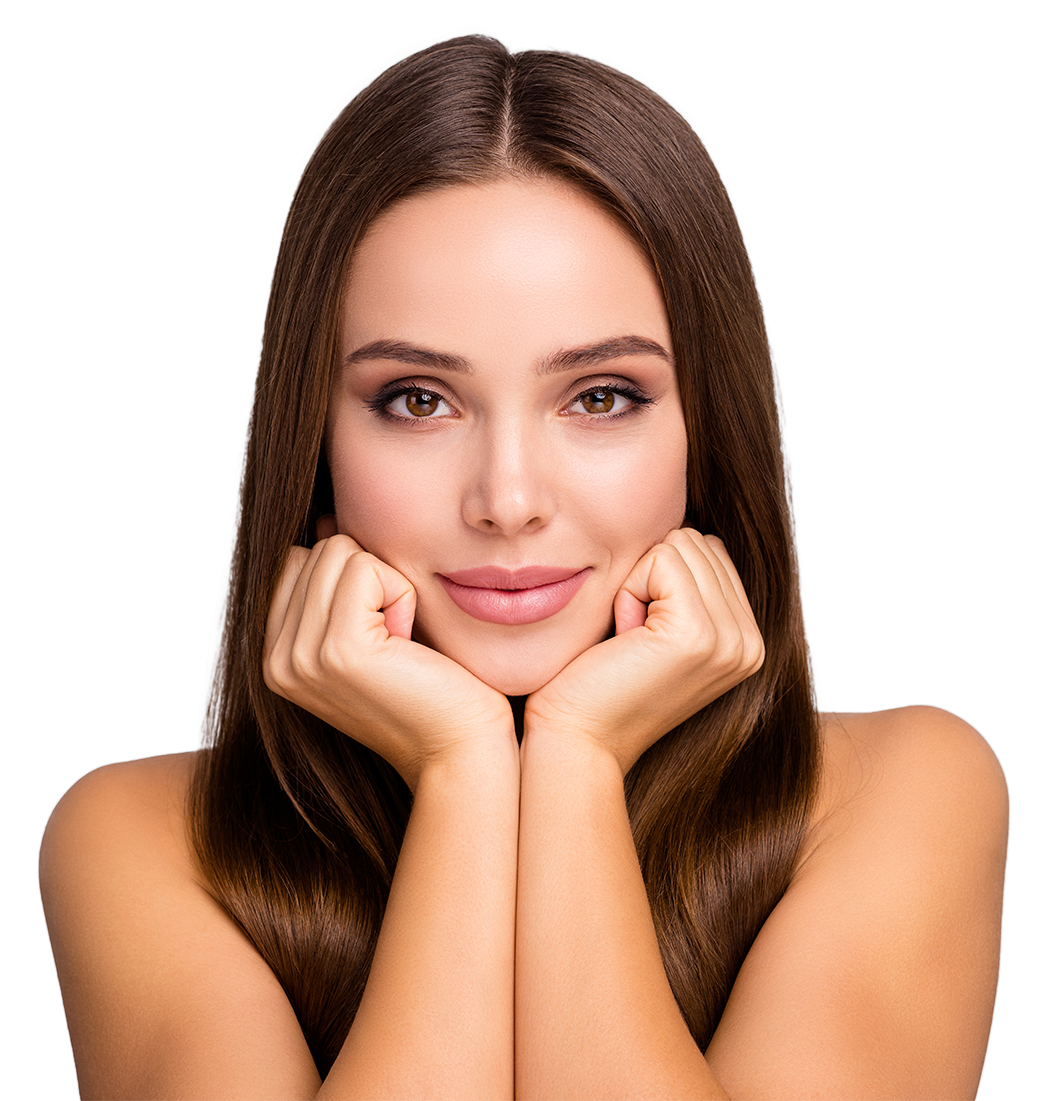
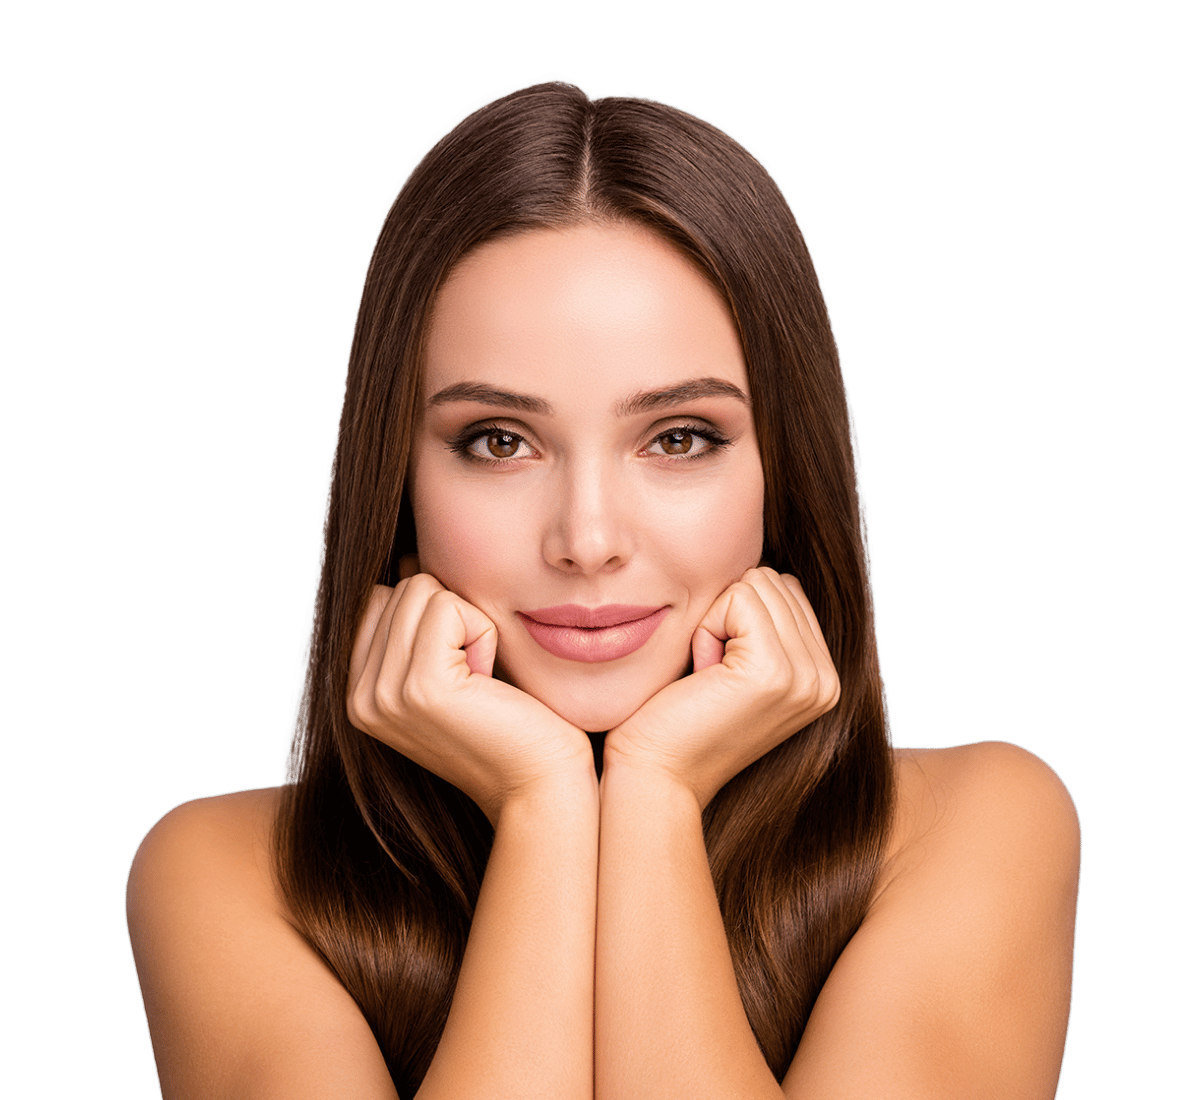
Remove Bart_Model image; update titles and image dimensions for eyebrow and hair transplantation sections to enhance layout and responsiveness

diff --git a/src/components/beardTransplantation/HeroSection.tsx b/src/components/beardTransplantation/HeroSection.tsx
@@ -28,7 +28,7 @@ const HeroSection: React.FC = () => {
   return (
     <div 
       ref={heroRef}
-      className="relative overflow-hidden min-h-[75vh] flex items-center"
+      className="relative overflow-hidden min-h-[85vh] flex items-center"
     >
       {/* Background with gradient and blur effects */}
       <div className="absolute inset-0 z-0">
@@ -73,12 +73,12 @@ const HeroSection: React.FC = () => {
           </div>
           
           {/* Main content area with perfect spacing */}
-          <div className="flex-1 flex flex-col justify-between py-4">
+          <div className="flex-1 flex flex-col justify-between pt-4 pb-0">
             {/* Text content with refined typography and animations */}
             <div className="space-y-6 mt-4">
               {/* Title with elegant animation and perfect typography */}
               <div className={`transition-all duration-1000 delay-300 ease-out ${isVisible ? 'opacity-100 translate-y-0' : 'opacity-0 -translate-y-6'}`}>
-                <h1 className={`${textStyle.heroTitle} text-center px-1 leading-tight break-words hyphens-auto`} lang="de">
+              <h1 className={`${textStyle.heroTitle} text-center px-1 leading-tight break-words hyphens-auto whitespace-pre-line`} lang="de">
                   {t('heroSection.title')}
                 </h1>
                 
@@ -113,7 +113,7 @@ const HeroSection: React.FC = () => {
             </div>
             
             {/* Image section with enhanced visual effects */}
-            <div className="mt-10 mb-16 relative">
+            <div className="mt-10 -mb-10 relative">
               {/* Decorative elements */}
               <div className="absolute inset-0 -z-10">
                 <div className="absolute bottom-0 left-1/2 transform -translate-x-1/2 w-[120%] h-[300px] bg-gradient-to-t from-[#7BA7C2]/10 to-transparent rounded-[100%] blur-2xl opacity-60"></div>
@@ -130,14 +130,11 @@ const HeroSection: React.FC = () => {
                   <div className="absolute bottom-1/3 -right-6 w-16 h-16 rounded-full border border-[#7BA7C2]/10 animate-pulse-slower"></div>
                   
                   <img 
-                    src="/images/Barthaartransplantation_Model.png"
+                    src="/images/Model_Bart.png"
                     alt="Dr. Dion - Führender Experte für Barthaartransplantation"
-                    className="w-auto h-auto max-h-[420px] object-contain relative z-10"
-                    style={{ 
-                      filter: 'drop-shadow(0 20px 13px rgb(0 0 0 / 0.05)) drop-shadow(0 8px 5px rgb(0 0 0 / 0.1))'
-                    }}
-                    width="400"
-                    height="600"
+                    className="w-auto h-auto max-h-[500px] object-contain relative z-10 scale-125"
+                    width="450"
+                    height="650"
                   />
                 </div>
               </div>
@@ -150,14 +147,14 @@ const HeroSection: React.FC = () => {
       
       {/* Desktop Layout - Refined for perfect aesthetics */}
       <div className="hidden md:block w-full max-w-7xl mx-auto px-8 relative z-10">
-        <div className="relative min-h-[600px] flex items-center">
+        <div className="relative min-h-[750px] flex items-center">
           {/* No logo in desktop version as per original design */}
           
           {/* Text content with refined typography and animations */}
-          <div className="relative z-10 w-[55%] flex flex-col justify-center h-full pt-6">
+          <div className="relative z-10 w-[50%] flex flex-col justify-center h-full pt-6 pr-12">
             {/* Title with elegant animation and perfect typography */}
             <div className={`transition-all duration-1000 delay-300 ease-out ${isVisible ? 'opacity-100 translate-y-0' : 'opacity-0 -translate-y-6'}`}>
-              <h1 className={`${textStyle.heroTitle} text-left leading-tight break-words hyphens-auto`} lang="de">
+              <h1 className={`${textStyle.heroTitle} text-left leading-tight break-words hyphens-auto whitespace-pre-line`} lang="de">
                 {t('heroSection.title')}
               </h1>
               
@@ -221,14 +218,11 @@ const HeroSection: React.FC = () => {
               <div className="absolute top-1/2 right-1/4 w-16 h-16 rounded-full border border-[#7BA7C2]/15 animate-pulse"></div>
               
               <img 
-                src="/images/Barthaartransplantation_Model.png"
+                src="/images/Model_Bart.png"
                 alt="Barthaartransplantation Experte - Modernste Techniken für natürliche Ergebnisse"
-                className="w-auto h-auto max-h-[620px] object-contain object-center relative z-10"
-                style={{ 
-                  filter: 'drop-shadow(0 20px 13px rgb(0 0 0 / 0.05)) drop-shadow(0 8px 5px rgb(0 0 0 / 0.1))'
-                }}
-                width="600"
-                height="800"
+                className="w-auto h-auto max-h-[750px] object-contain object-center relative z-10 scale-125"
+                width="650"
+                height="850"
               />
             </div>
           </div>

diff --git a/src/components/hairTransplantation/HeroSection.tsx b/src/components/hairTransplantation/HeroSection.tsx
@@ -28,7 +28,7 @@ const HeroSection: React.FC = () => {
   return (
     <div 
       ref={heroRef}
-      className="relative overflow-hidden min-h-[75vh] flex items-center"
+      className="relative overflow-hidden min-h-[85vh] flex items-center"
     >
       {/* Background with gradient and blur effects */}
       <div className="absolute inset-0 z-0">
@@ -73,12 +73,12 @@ const HeroSection: React.FC = () => {
           </div>
           
           {/* Main content area with perfect spacing */}
-          <div className="flex-1 flex flex-col justify-between py-4">
+          <div className="flex-1 flex flex-col justify-between pt-4 pb-0">
             {/* Text content with refined typography and animations */}
             <div className="space-y-6 mt-4">
               {/* Title with elegant animation and perfect typography */}
               <div className={`transition-all duration-1000 delay-300 ease-out ${isVisible ? 'opacity-100 translate-y-0' : 'opacity-0 -translate-y-6'}`}>
-                <h1 className={`${textStyle.heroTitle} text-center px-1 leading-tight break-words hyphens-auto`} lang="de">
+              <h1 className={`${textStyle.heroTitle} text-center px-1 leading-tight break-words hyphens-auto whitespace-pre-line`} lang="de">
                   {t('heroSection.title')}
                 </h1>
                 
@@ -113,7 +113,7 @@ const HeroSection: React.FC = () => {
             </div>
             
             {/* Image section with enhanced visual effects */}
-            <div className="mt-10 mb-16 relative">
+            <div className="mt-10 -mb-10 relative">
               {/* Decorative elements */}
               <div className="absolute inset-0 -z-10">
                 <div className="absolute bottom-0 left-1/2 transform -translate-x-1/2 w-[120%] h-[300px] bg-gradient-to-t from-[#7BA7C2]/10 to-transparent rounded-[100%] blur-2xl opacity-60"></div>
@@ -130,14 +130,11 @@ const HeroSection: React.FC = () => {
                   <div className="absolute bottom-1/3 -right-6 w-16 h-16 rounded-full border border-[#7BA7C2]/10 animate-pulse-slower"></div>
                   
                   <img 
-                    src="/images/Dion_Model_Mobile.png"
+                    src="/images/Model_Haare.png"
                     alt="Dr. Dion - Führender Experte für Haartransplantation"
-                    className="w-auto h-auto max-h-[420px] object-contain relative z-10"
-                    style={{ 
-                      filter: 'drop-shadow(0 20px 13px rgb(0 0 0 / 0.05)) drop-shadow(0 8px 5px rgb(0 0 0 / 0.1))'
-                    }}
-                    width="400"
-                    height="600"
+                    className="w-auto h-auto max-h-[500px] object-contain relative z-10 scale-125"
+                    width="450"
+                    height="650"
                   />
                 </div>
               </div>
@@ -150,14 +147,14 @@ const HeroSection: React.FC = () => {
       
       {/* Desktop Layout - Refined for perfect aesthetics */}
       <div className="hidden md:block w-full max-w-7xl mx-auto px-8 relative z-10">
-        <div className="relative min-h-[600px] flex items-center">
+        <div className="relative min-h-[750px] flex items-center">
           {/* No logo in desktop version as per original design */}
           
           {/* Text content with refined typography and animations */}
-          <div className="relative z-10 w-[55%] flex flex-col justify-center h-full pt-6">
+          <div className="relative z-10 w-[50%] flex flex-col justify-center h-full pt-6 pr-12">
             {/* Title with elegant animation and perfect typography */}
             <div className={`transition-all duration-1000 delay-300 ease-out ${isVisible ? 'opacity-100 translate-y-0' : 'opacity-0 -translate-y-6'}`}>
-              <h1 className={`${textStyle.heroTitle} text-left leading-tight break-words hyphens-auto`} lang="de">
+              <h1 className={`${textStyle.heroTitle} text-left leading-tight break-words hyphens-auto whitespace-pre-line`} lang="de">
                 {t('heroSection.title')}
               </h1>
               
@@ -221,14 +218,11 @@ const HeroSection: React.FC = () => {
               <div className="absolute top-1/2 right-1/4 w-16 h-16 rounded-full border border-[#7BA7C2]/15 animate-pulse"></div>
               
               <img 
-                src="/images/Dion_Model_Home.webp"
+                src="/images/Model_Haare.png"
                 alt="Haartransplantation Experte - Modernste Techniken für natürliche Ergebnisse"
-                className="w-auto h-auto max-h-[620px] object-contain object-center relative z-10"
-                style={{ 
-                  filter: 'drop-shadow(0 20px 13px rgb(0 0 0 / 0.05)) drop-shadow(0 8px 5px rgb(0 0 0 / 0.1))'
-                }}
-                width="600"
-                height="800"
+                className="w-auto h-auto max-h-[750px] object-contain object-center relative z-10 scale-125"
+                width="650"
+                height="850"
               />
             </div>
           </div>

diff --git a/src/components/eyebrowTransplantation/HeroSection.tsx b/src/components/eyebrowTransplantation/HeroSection.tsx
@@ -78,7 +78,7 @@ const HeroSection: React.FC = () => {
             <div className="space-y-6 mt-4">
               {/* Title with elegant animation and perfect typography */}
               <div className={`transition-all duration-1000 delay-300 ease-out ${isVisible ? 'opacity-100 translate-y-0' : 'opacity-0 -translate-y-6'}`}>
-                <h1 className={`${textStyle.heroTitle} text-center px-1 leading-tight break-words hyphens-auto`} lang="de">
+              <h1 className={`${textStyle.heroTitle} text-center px-1 leading-tight break-words hyphens-auto whitespace-pre-line`} lang="de">
                   {t('heroSection.title')}
                 </h1>
                 
@@ -113,7 +113,7 @@ const HeroSection: React.FC = () => {
             </div>
             
             {/* Image section with enhanced visual effects */}
-            <div className="mt-10 mb-0 relative">
+            <div className="mt-10 -mb-10 relative">
               {/* Decorative elements */}
               <div className="absolute inset-0 -z-10">
                 <div className="absolute bottom-0 left-1/2 transform -translate-x-1/2 w-[120%] h-[300px] bg-gradient-to-t from-[#7BA7C2]/10 to-transparent rounded-[100%] blur-2xl opacity-60"></div>
@@ -132,9 +132,9 @@ const HeroSection: React.FC = () => {
                   <img 
                     src="/images/Augenbrauen_Model.png"
                     alt="Dion Hair Clinic - Augenbrauentransplantation"
-                    className="w-auto h-auto max-h-[500px] object-contain relative z-10"
-                    width="400"
-                    height="600"
+                    className="w-auto h-auto max-h-[500px] object-contain relative z-10 scale-125"
+                    width="450"
+                    height="650"
                   />
                 </div>
               </div>
@@ -154,7 +154,7 @@ const HeroSection: React.FC = () => {
           <div className="relative z-10 w-[50%] flex flex-col justify-center h-full pt-6 pr-12">
             {/* Title with elegant animation and perfect typography */}
             <div className={`transition-all duration-1000 delay-300 ease-out ${isVisible ? 'opacity-100 translate-y-0' : 'opacity-0 -translate-y-6'}`}>
-              <h1 className={`${textStyle.heroTitle} text-left leading-tight break-words hyphens-auto`} lang="de">
+              <h1 className={`${textStyle.heroTitle} text-left leading-tight break-words hyphens-auto whitespace-pre-line`} lang="de">
                 {t('heroSection.title')}
               </h1>
               
@@ -207,7 +207,7 @@ const HeroSection: React.FC = () => {
           </div>
           
           {/* Image section with enhanced visual effects */}
-          <div className={`absolute right-0 top-0 bottom-0 w-[50%] h-full flex items-end justify-end transition-all duration-1000 delay-500 ease-out ${isVisible ? 'opacity-100 translate-x-0' : 'opacity-0 translate-x-12'}`}>
+          <div className={`absolute right-0 top-0 bottom-0 w-[50%] h-full flex items-center justify-end transition-all duration-1000 delay-500 ease-out ${isVisible ? 'opacity-100 translate-x-0' : 'opacity-0 translate-x-12'}`}>
             <div className="relative">
               {/* Enhanced glow effect */}
               <div className="absolute -inset-12 bg-gradient-to-tr from-[#7BA7C2]/10 to-[#7BA7C2]/5 rounded-full blur-3xl"></div>
@@ -220,8 +220,8 @@ const HeroSection: React.FC = () => {
               <img 
                 src="/images/Augenbrauen_Model.png"
                 alt="Augenbrauentransplantation Experte - Modernste Techniken für natürliche Ergebnisse"
-                className="w-auto h-auto max-h-[750px] object-contain object-center relative z-10"
-                width="600"
+                className="w-auto h-auto max-h-[750px] object-contain object-center relative z-10 scale-125"
+                width="650"
                 height="800"
               />
             </div>
